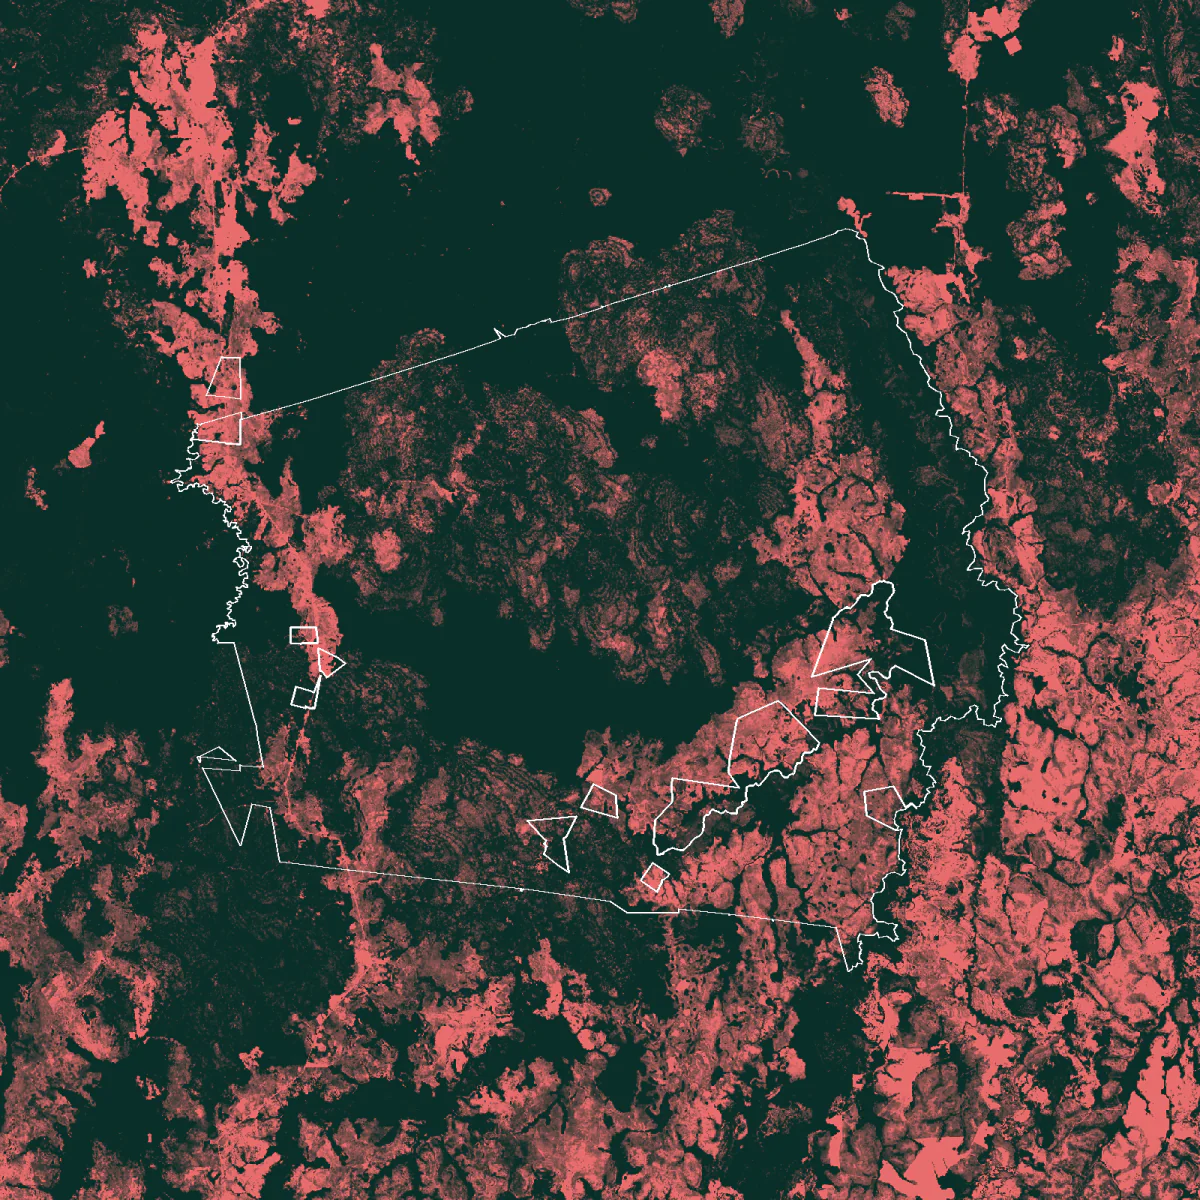
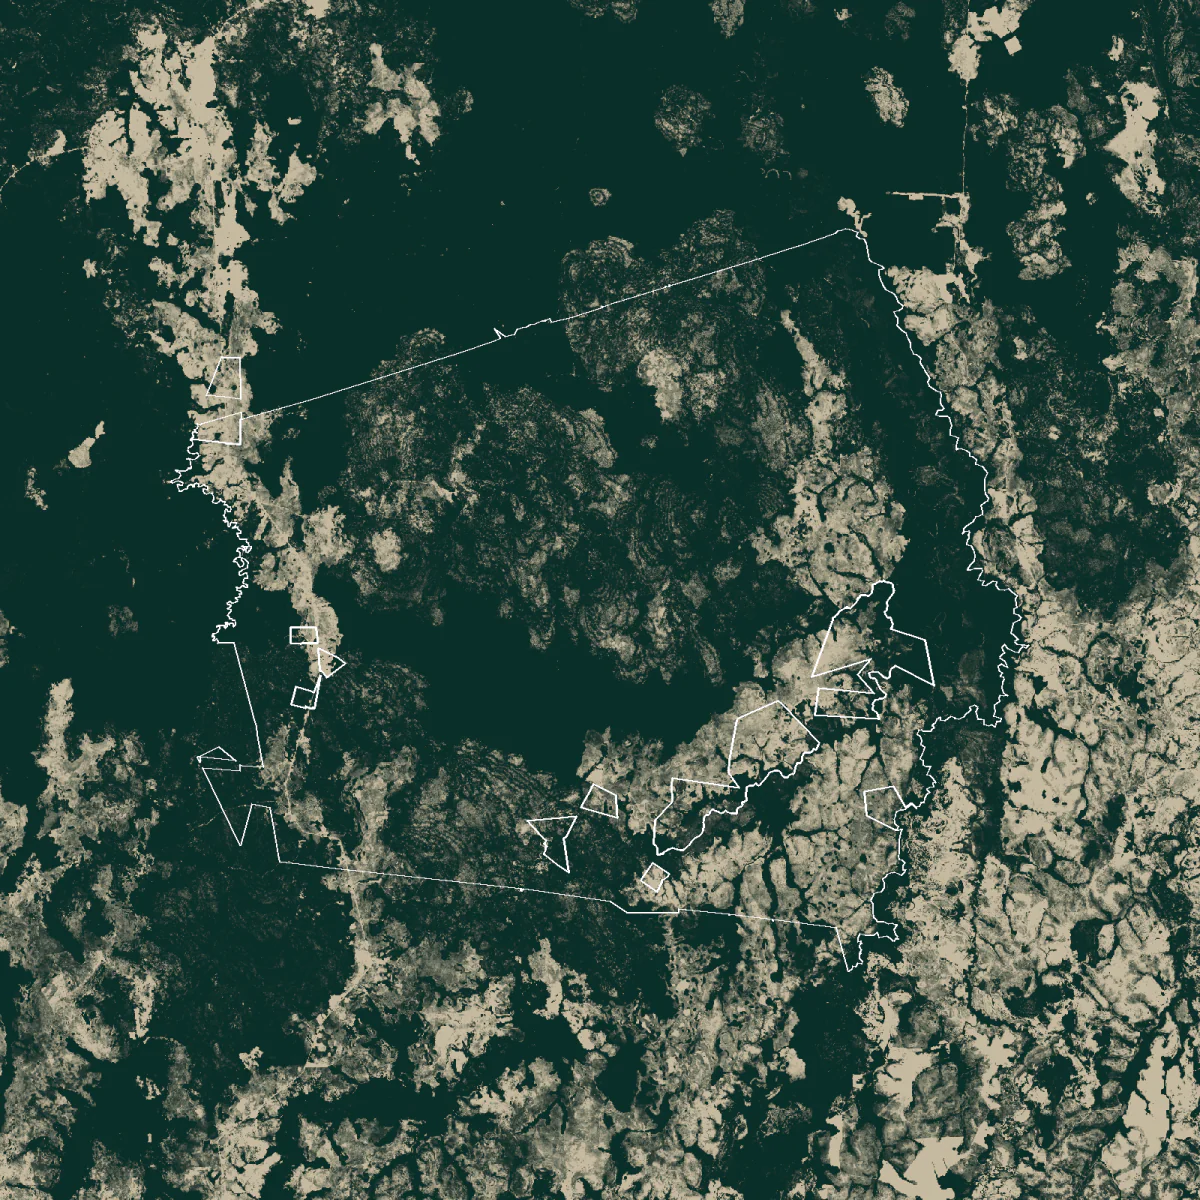
Fixed Scale Bar + Deforestation Coloring

diff --git a/src/components/stages/BeatIndicator.jsx b/src/components/stages/BeatIndicator.jsx
@@ -7,6 +7,19 @@ import './BeatIndicator.css';
 const clamp01 = (v) => Math.min(1, Math.max(0, v));
 const lerp = (a, b, t) => a + (b - a) * t;
 
+// Blend two #rrggbb values, so the swatch changes meaning as the bar arrives
+// rather than snapping between two unrelated colours.
+const hexToRgb = (h) => {
+  const n = parseInt(String(h || '').replace('#', ''), 16);
+  return Number.isNaN(n) ? [0, 0, 0] : [(n >> 16) & 255, (n >> 8) & 255, n & 255];
+};
+const mixHex = (a, b, t) => {
+  const [r1, g1, b1] = hexToRgb(a);
+  const [r2, g2, b2] = hexToRgb(b);
+  const c = (x, y) => Math.round(lerp(x, y, clamp01(t)));
+  return `rgb(${c(r1, r2)}, ${c(g1, g2)}, ${c(b1, b2)})`;
+};
+
 /**
  * Legend and beat indicator in one: a heading naming what the colour means,
  * the three time spans below it, and a bar that slides to sit under whichever
@@ -21,13 +34,15 @@ const lerp = (a, b, t) => a + (b - a) * t;
  * fractions in between, so the bar travels in step with the image crossfade
  * instead of snapping between beats.
  */
-const BeatIndicator = forwardRef(({ heading, labels = [], color = '#E86D6D' }, ref) => {
+const BeatIndicator = forwardRef(({ beats = [], note }, ref) => {
   const { t } = useTranslation();
+  const headingRef = useRef(null);
   const trackRef = useRef(null);
   const barRef = useRef(null);
   const itemRefs = useRef([]);
   const slots = useRef([]);
   const lastP = useRef(0);
+  const lastIdx = useRef(-1);
 
   // Position the bar for a given progress. Called on every scroll frame, so it
   // writes straight to style rather than going through React.
@@ -45,6 +60,19 @@ const BeatIndicator = forwardRef(({ heading, labels = [], color = '#E86D6D' }, r
     // scaleX on a 1px-wide bar, so this is transform-only — no layout per frame
     bar.style.transform =
       `translateX(${lerp(a.x, b.x, f)}px) scaleX(${lerp(a.w, b.w, f)})`;
+    // The swatch is the legend, so it has to say what THIS beat means: the
+    // extent beats are bare earth, only the loss beat is pink. Colour blends
+    // as the bar travels; the heading swaps at the nearer beat.
+    const ca = beats[i] || {};
+    const cb = beats[Math.min(i + 1, max)] || {};
+    bar.style.background = mixHex(ca.color, cb.color, f);
+    const nearest = Math.round(q);
+    if (nearest !== lastIdx.current) {
+      lastIdx.current = nearest;
+      const h = headingRef.current;
+      const txt = (beats[nearest] || {}).heading;
+      if (h && txt) h.textContent = txt;
+    }
     // the label the bar is under reads at full strength, its neighbours fade
     itemRefs.current.forEach((el, k) => {
       if (el) el.style.opacity = String(0.4 + 0.6 * clamp01(1 - Math.abs(q - k)));
@@ -72,23 +100,30 @@ const BeatIndicator = forwardRef(({ heading, labels = [], color = '#E86D6D' }, r
     if (trackRef.current) ro.observe(trackRef.current);
     itemRefs.current.forEach((el) => el && ro.observe(el));
     return () => ro.disconnect();
-  }, [measure, labels.length]);
+  }, [measure, beats.length]);
 
   return (
     <div className="beatind">
-      <div className="beatind__heading">{t(heading || '')}</div>
+      <div className="beatind__heading" ref={headingRef}>
+        {t((beats[0] || {}).heading || '')}
+      </div>
       <div className="beatind__track" ref={trackRef}>
-        {labels.map((label, i) => (
+        {beats.map((b, i) => (
           <span
-            key={label}
+            key={b.label}
             className="beatind__item"
             ref={(el) => { itemRefs.current[i] = el; }}
           >
-            {t(label)}
+            {t(b.label)}
           </span>
         ))}
-        <span className="beatind__bar" ref={barRef} style={{ background: color }} />
+        <span
+          className="beatind__bar"
+          ref={barRef}
+          style={{ background: (beats[0] || {}).color }}
+        />
       </div>
+      {note && <p className="beatind__note">{t(note)}</p>}
     </div>
   );
 });

diff --git a/src/components/area-menu/area-menu.jsx b/src/components/area-menu/area-menu.jsx
@@ -17,9 +17,10 @@ gsap.registerPlugin(ScrollTrigger, ScrollToPlugin);
  *
  * `items` come from the chapters carrying an `areaId`, in config order.
  */
-const AreaMenu = ({ items = [], showAfter, hideAt, currentChapterId }) => {
+const AreaMenu = ({ items = [], showAfter, hideAt }) => {
   const { t } = useTranslation();
   const [visible, setVisible] = useState(false);
+  const [currentId, setCurrentId] = useState(null);
   const barRef = useRef(null);
 
   useEffect(() => {
@@ -41,6 +42,41 @@ const AreaMenu = ({ items = [], showAfter, hideAt, currentChapterId }) => {
 
     return () => st.kill();
   }, [items.length, showAfter, hideAt]);
+
+  // Which area the reader is in, worked out from geometry rather than from the
+  // app's currentChapterId. That value is a chapter *transition* signal — the
+  // waypoints deliberately set it to the chapter being LEFT so the map can run
+  // onChapterExit — and when scrolling up the leaving chapter's callback fires
+  // last, so it trails a section behind. Reading positions is symmetric in
+  // both directions.
+  useEffect(() => {
+    if (items.length === 0) return undefined;
+    let queued = false;
+    const check = () => {
+      queued = false;
+      let active = null;
+      // items run #10 -> #1 down the page, so the last one whose top has
+      // reached the viewport is the one on screen
+      items.forEach((it) => {
+        const el = document.getElementById(it.id);
+        if (el && el.getBoundingClientRect().top <= 1) active = it.id;
+      });
+      setCurrentId((prev) => (prev === active ? prev : active));
+    };
+    const onScroll = () => {
+      if (queued) return;
+      queued = true;
+      requestAnimationFrame(check);
+    };
+
+    check();
+    window.addEventListener('scroll', onScroll, { passive: true });
+    window.addEventListener('resize', onScroll);
+    return () => {
+      window.removeEventListener('scroll', onScroll);
+      window.removeEventListener('resize', onScroll);
+    };
+  }, [items]);
 
   const goTo = (id) => {
     const el = document.getElementById(id);
@@ -79,7 +115,7 @@ const AreaMenu = ({ items = [], showAfter, hideAt, currentChapterId }) => {
           <li key={it.id}>
             <button
               type="button"
-              className={cx('area-menu__item', it.id === currentChapterId && 'is-current')}
+              className={cx('area-menu__item', it.id === currentId && 'is-current')}
               onClick={() => goTo(it.id)}
               tabIndex={visible ? 0 : -1}
               title={`${it.rank} ${t(it.title)} — ${t(it.country)}`}

diff --git a/src/config.js b/src/config.js
@@ -94,16 +94,26 @@ export default {
   },
 
 
-  // The indicator beneath each panel: a heading naming what the colour means,
-  // and the three time spans the bar slides between. Same for every area, so it
-  // lives here once rather than repeating on all ten chapters.
+  // The indicator beneath each panel. One entry per beat, because the three
+  // beats do not show the same quantity: the first two are forest extent at a
+  // moment in time, the third is loss over a period. Giving them one shared
+  // heading ("Tree cover loss") invited the reader to read bare savanna in the
+  // extent panels as deforestation. Heading and swatch now change with the
+  // beat, and only the loss beat is pink.
   panelLabels: {
-    heading: 'Tree cover loss',
-    beat1: '2000',
-    beat2: '2025',
-    beat3: '2015–2025',
-    // matches the red used for loss and cleared ground on the panels
-    color: '#e66d6d',
+    beats: [
+      // Pine Green: the same colour the panels paint forest with, so the
+      // swatch names what the extent beats are actually showing.
+      { label: '2000',      heading: 'Forest extent',   color: '#0a2f29' },
+      { label: '2025',      heading: 'Forest extent',   color: '#0a2f29' },
+      { label: '2015–2025', heading: 'Tree cover loss', color: '#e66d6d' },
+    ],
+    // Between a quarter and two-fifths of the recorded loss leaves too weak a
+    // signature to appear in the extent panels — fire under standing canopy
+    // and selective logging take the trees while the surface still reads as
+    // forest. Said plainly, so a reader who looks for the loss in the 2025
+    // panel and cannot find it knows why.
+    note: 'Note: Not all tree cover loss is detected. Fire, for example, can burn trees while the satellite image can sometimes read it as forest extent.',
   },
 
   alignment: 'left',

diff --git a/src/components/intro/intro.scss b/src/components/intro/intro.scss
@@ -3,6 +3,10 @@
   // section, with the collage assembled from individual elements on top of it
   // (see components/intro-art). Keeps the intro consistent with the rest of
   // the piece and lets the elements animate independently.
+  // Depth of the collage strip on narrow screens. Shared with intro-art so the
+  // copy below can be kept clear of it — the two must not drift apart.
+  --intro-strip-h: 24vh;                  // adjust mobile strip depth
+
   background-color: #f7f4ee;              // adjust intro ground
   background-image: url('../../assets/paper-grain.jpg');
   background-size: 256px 256px;
@@ -45,4 +49,14 @@
 .intro__content {
   position: relative;
   z-index: 1;
+}
+
+// On narrow screens the collage sits in a strip across the top, while the copy
+// is centred over the full height — so the title ran underneath the images.
+// Padding the content box down by the strip's own depth keeps them apart.
+@media (max-width: 820px) {
+  .intro__content {
+    padding-top: calc(var(--intro-strip-h, 24vh) + 1rem);   // adjust clearance
+    box-sizing: border-box;
+  }
 }

diff --git a/src/components/stages/ScaleBar.css b/src/components/stages/ScaleBar.css
@@ -1,11 +1,15 @@
-/* Sits bottom-left inside the panel, drawn straight onto the imagery. Width is
-   fixed across every area so the block reads consistently; only the two lines
-   inside it change length. */
+/* Sits bottom-left inside the panel, drawn straight onto the imagery. The two
+   lines carry the measurement, so their length has to be exact. */
 .scalebar {
   position: absolute;
   left: 2.4%;
   bottom: 2.4%;
-  width: 30%;                          /* adjust block width */
+  /* MUST stay 100%. The bar lengths are percentages of this element, and they
+     are computed as a fraction of the PANEL's ground width — so anything less
+     than 100% silently shortens every scale bar by that factor. It was 30%,
+     which drew every bar at a third of its true length. Nothing is painted at
+     the right-hand end, so the box simply spans the frame. */
+  width: 100%;
   box-sizing: border-box;
   text-align: left;                    /* sections centre their text; opt out */
   pointer-events: none;

diff --git a/src/components/intro-art/intro-art.jsx b/src/components/intro-art/intro-art.jsx
@@ -48,7 +48,23 @@ const IntroArt = ({ elements = [] }) => {
       stagger: { each: 0.09, from: 'center' },
     });
 
-    return () => { tl.kill(); gsap.set(pieces, { willChange: '' }); };
+    // Failsafe. gsap.from() applies opacity:0 immediately and only lifts it as
+    // the tween runs — so if the ticker never starts (a background tab, a
+    // throttled renderer) the collage stays invisible indefinitely. An unseen
+    // entrance is a small loss; an invisible intro is not. If the timeline
+    // hasn't finished shortly after it should have, force the resting state.
+    const failsafe = window.setTimeout(() => {
+      if (!tl.isActive() && tl.progress() === 0) {
+        tl.kill();
+        gsap.set(pieces, { opacity: 1, scale: 1, x: 0, willChange: '' });
+      }
+    }, 4000);
+
+    return () => {
+      window.clearTimeout(failsafe);
+      tl.kill();
+      gsap.set(pieces, { willChange: '' });
+    };
   }, [elements]);
 
   if (elements.length === 0) return null;

diff --git a/src/components/stages/AreaReveal.jsx b/src/components/stages/AreaReveal.jsx
@@ -149,12 +149,7 @@ const AreaReveal = ({
         </div>
 
         <div className="area-section__card">
-          <BeatIndicator
-            ref={indRef}
-            heading={panelLabels.heading}
-            labels={[panelLabels.beat1, panelLabels.beat2, panelLabels.beat3]}
-            color={panelLabels.color}
-          />
+          <BeatIndicator ref={indRef} beats={panelLabels.beats || []} note={panelLabels.note} />
           {homeTo && (
             <p className="area-section__hometo area-section__hometo--card">
               {t('Home to')}: <b>{t(homeTo)}</b>

diff --git a/src/components/stages/BeatIndicator.css b/src/components/stages/BeatIndicator.css
@@ -45,3 +45,14 @@
   transform: translateX(0) scaleX(0);
   will-change: transform;
 }
+
+/* Why the extent panels and the loss panel do not agree pixel for pixel. */
+.beatind__note {
+  margin: 0.6rem 0 0;
+  font-family: 'Open Sans', sans-serif;
+  /* a touch under the labels, but never into unreadable territory —
+     --fs-meta drops to 11px on phones, which would leave this at 9px */
+  font-size: max(11px, calc(var(--fs-meta, 13px) - 2px));   /* adjust note size */
+  line-height: 1.45;
+  color: #6b7672;                                /* adjust note colour */
+}

diff --git a/src/components/story/story.jsx b/src/components/story/story.jsx
@@ -36,7 +36,6 @@ const Story = ({ title, subtitle, byline, theme, chapters, alignment, currentCha
                          menuName: c.menuName, country: c.country }))}
         showAfter="chapter 03"
         hideAt="credits"
-        currentChapterId={currentChapterId}
       />
 
       <div id="features" className="w-full block">

diff --git a/src/components/intro-art/intro-art.scss b/src/components/intro-art/intro-art.scss
@@ -44,7 +44,7 @@
     right: auto;
     top: auto;
     width: auto;
-    height: 24vh;                       // adjust mobile strip depth
+    height: var(--intro-strip-h, 24vh);   // set on .intro, shared with the copy
     flex: 0 0 auto;
     object-fit: cover;
   }
